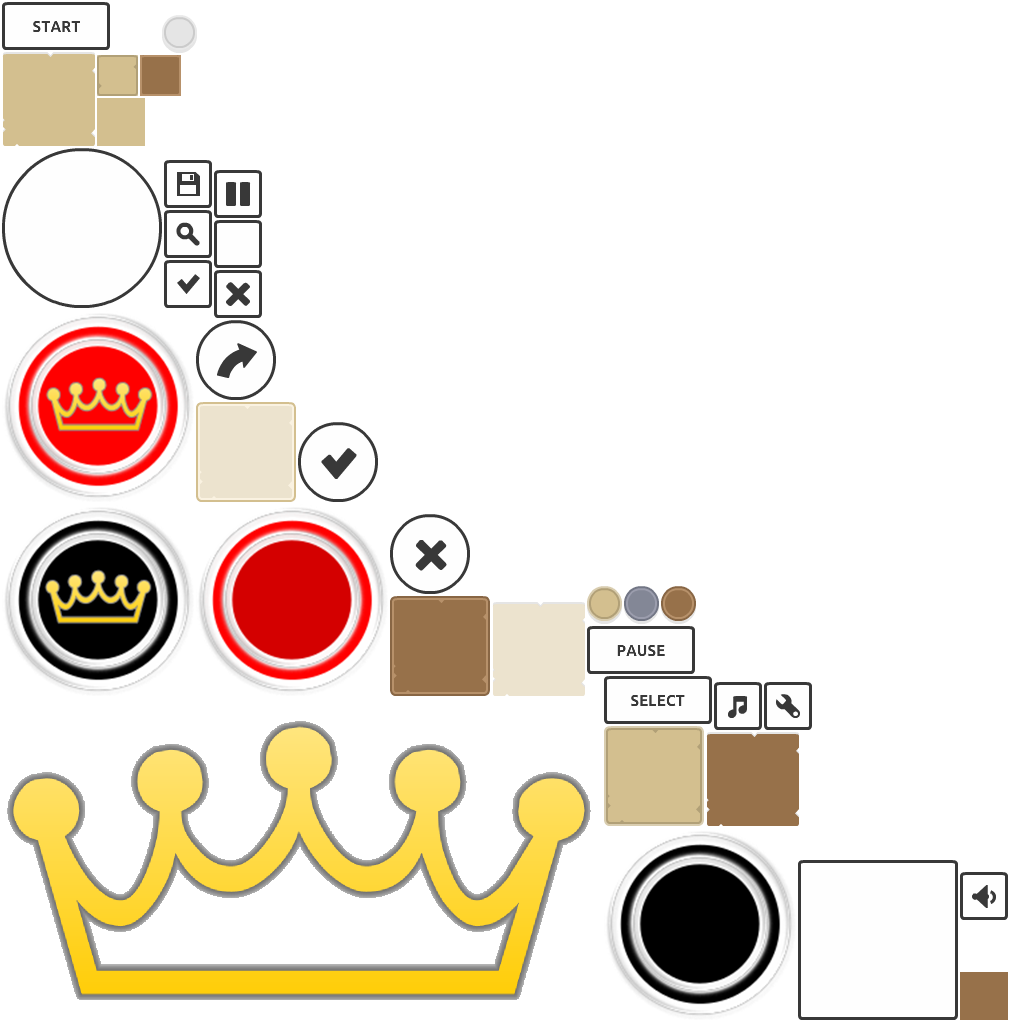
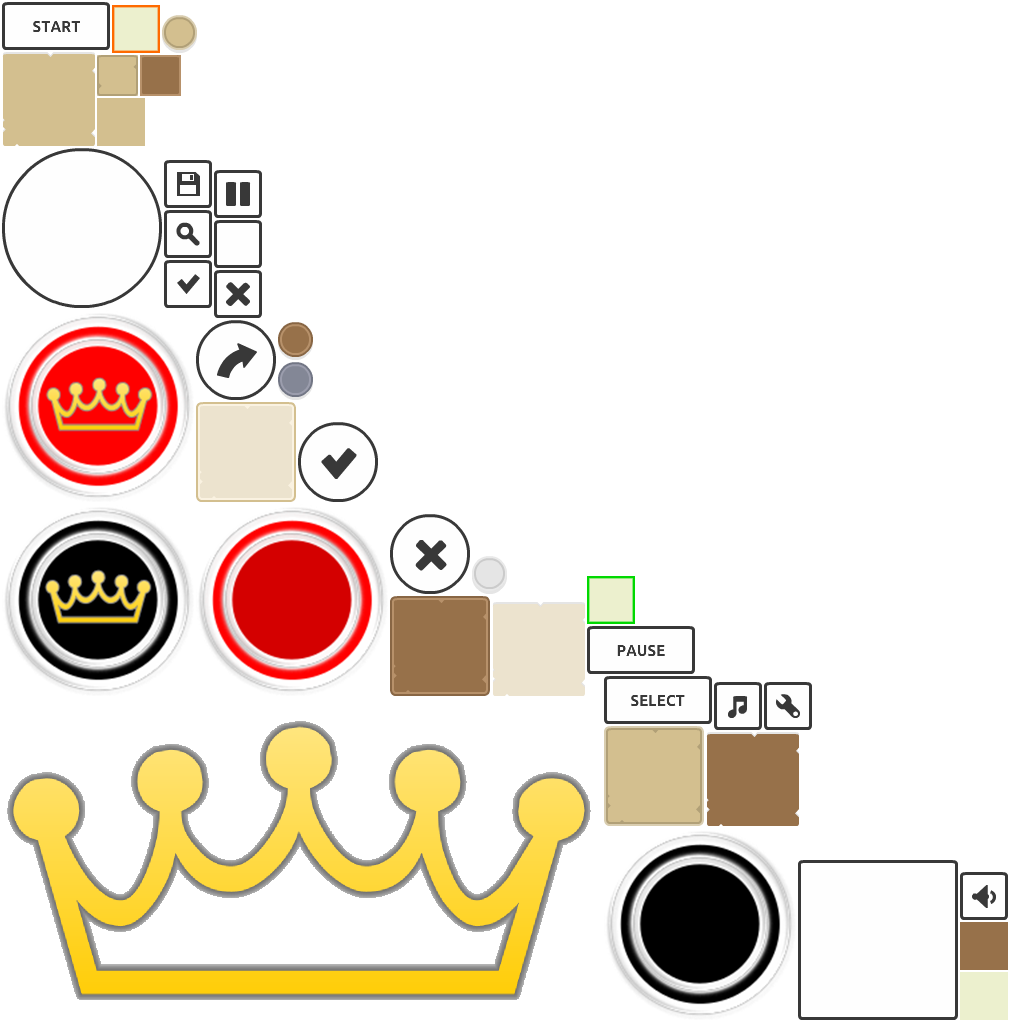
board update

diff --git a/core/src/com/pennywise/checkers/screens/GameScreen.java b/core/src/com/pennywise/checkers/screens/GameScreen.java
@@ -32,6 +32,7 @@ import com.pennywise.checkers.core.GameCam;
 import com.pennywise.checkers.core.Util;
 import com.pennywise.checkers.objects.Panel;
 import com.pennywise.checkers.objects.Piece;
+import com.pennywise.checkers.objects.Tile;
 
 import org.apache.commons.lang3.StringUtils;
 import org.apache.commons.lang3.text.WordUtils;
@@ -71,6 +72,8 @@ public class GameScreen extends AbstractScreen implements InputProcessor {
     private Button pause;
     private boolean isBusy = false;
     private int width, height;
+    private Tile[] backgroundTiles;
+    private Panel board;
 
     public GameScreen(Checkers game) {
         super(game);
@@ -124,10 +127,13 @@ public class GameScreen extends AbstractScreen implements InputProcessor {
         if (Gdx.input.isTouched()) {
             stage.screenToStageCoordinates(stageCoords.set(Gdx.input.getX(), Gdx.input.getY()));
             Actor actor = stage.hit(stageCoords.x, stageCoords.y, true);
-            if (actor instanceof com.pennywise.checkers.objects.Tile) {
-                ((com.pennywise.checkers.objects.Tile) actor).getStyle().background = tileTexture("tile" + color);
-                Gdx.app.log("Tile", ((com.pennywise.checkers.objects.Tile) actor).getName());
-            }
+            Actor actor2 = boardStage.hit(stageCoords.x, stageCoords.y, true);
+            int y= 0;
+            
+            //if (actor instanceof Piece) {
+            //    board.stageToLocalCoordinates(stageCoords.set(Gdx.input.getX(), Gdx.input.getY()));
+            //    Actor bgTile = board.hit(stageCoords.x, stageCoords.y, true);
+           // }
 
         }
 
@@ -180,7 +186,6 @@ public class GameScreen extends AbstractScreen implements InputProcessor {
 
         Stack stack = new Stack();
         stack.setSize(com.pennywise.checkers.core.Constants.GAME_WIDTH, com.pennywise.checkers.core.Constants.GAME_HEIGHT);
-        stack.add(backGround());
         stack.add(hud());
         stack.add(layerPuzzle);
         stage.addActor(stack);
@@ -210,8 +215,8 @@ public class GameScreen extends AbstractScreen implements InputProcessor {
 
     private Group board(int rows, int cols) {
 
-        Group board = new Group();
-        board.setTouchable(Touchable.disabled);
+        board = new Panel(gameUI.createPatch("panel_brown"));
+        board.setTouchable(Touchable.childrenOnly);
 
         Label.LabelStyle style = new Label.LabelStyle();
         style.font = gridFont;
@@ -219,32 +224,40 @@ public class GameScreen extends AbstractScreen implements InputProcessor {
 
         Vector2[] position = new Vector2[rows * cols];
 
-        com.pennywise.checkers.objects.Tile[] tiles = new com.pennywise.checkers.objects.Tile[rows * cols];
+        backgroundTiles = new Tile[rows * cols];
 
-        cellsize = ((com.pennywise.checkers.core.Constants.GAME_WIDTH - cols) / (cols));
-        float padding = (com.pennywise.checkers.core.Constants.GAME_WIDTH - (cellsize * cols)) / 2;
+        cellsize = ((Constants.GAME_WIDTH - cols) / (cols));
+        float padding = (Constants.GAME_WIDTH - (cellsize * cols)) / 2;
         int index, y, x = 0;
+
+
+        float posY = (float) (0.15 * Constants.GAME_HEIGHT);
+
+        board.setOrigin(0, posY);
+        board.setWidth(Constants.GAME_WIDTH);
+        float bHeight = (cellsize * rows) + (padding * 2);
+        board.setHeight(bHeight);
 
         for (int row = 0; row < rows; row++) {
             for (int col = 0; col < cols; col++) {
                 index = col + (row * cols);
                 position[index] = new Vector2((col * cellsize) + padding,
-                        padding + ((row * (cellsize)) + (com.pennywise.checkers.core.Constants.GAME_HEIGHT * 0.20f)));
+                        padding + ((row * (cellsize)) + (com.pennywise.checkers.core.Constants.GAME_HEIGHT * 0.15f)));
 
                 x = col * 22;
                 y = row * 22;
 
                 if ((row % 2) == (col % 2))
-                    style.background = tileTexture("whiteCell");
+                    style.background = tileTexture("beigeCell");
                 else
                     style.background = tileTexture("blackCell");
 
-                tiles[index] = new com.pennywise.checkers.objects.Tile("", new Label.LabelStyle(style));
-                tiles[index].setSize(cellsize, cellsize);
-                tiles[index].setAlignment(Align.center);
-                tiles[index].setPosition(position[index].x, position[index].y);
-                tiles[index].setName(index + "");
-                board.addActor(tiles[index]);
+                backgroundTiles[index] = new com.pennywise.checkers.objects.Tile("", new Label.LabelStyle(style));
+                backgroundTiles[index].setSize(cellsize, cellsize);
+                backgroundTiles[index].setAlignment(Align.center);
+                backgroundTiles[index].setPosition(position[index].x, position[index].y);
+                backgroundTiles[index].setName(index + "");
+                board.addActor(backgroundTiles[index]);
             }
         }
 
@@ -255,7 +268,7 @@ public class GameScreen extends AbstractScreen implements InputProcessor {
 
     protected Group drawPieces(int rows, int cols) {
 
-        Group board = new Group();//gameUI.createPatch("panel_brown"));
+        Group board = new Group();
         board.setTouchable(Touchable.childrenOnly);
 
         Vector2[] position = new Vector2[rows * cols];
@@ -266,12 +279,19 @@ public class GameScreen extends AbstractScreen implements InputProcessor {
         float padding = (Constants.GAME_WIDTH - (cellsize * cols)) / 2;
         int index, y, x = 0;
 
+        float posY = (float) (0.15 * Constants.GAME_HEIGHT);
+
+        board.setOrigin(0, posY);
+        board.setWidth(Constants.GAME_WIDTH);
+        float bHeight = (cellsize * rows) + (padding * 2);
+        board.setHeight(bHeight);
+
         //black pieces
         for (int row = 0; row < rows; row++) {
             for (int col = 0; col < cols; col++) {
                 index = col + (row * cols);
                 position[index] = new Vector2((col * cellsize) + padding,
-                        padding + ((row * (cellsize)) + (Constants.GAME_HEIGHT * 0.20f)));
+                        padding + ((row * (cellsize)) + (Constants.GAME_HEIGHT * 0.15f)));
 
                 x = col * 22;
                 y = row * 22;
@@ -280,9 +300,9 @@ public class GameScreen extends AbstractScreen implements InputProcessor {
                     continue;
                 else {
                     if (row < 3)
-                        pieces[index] = new Piece(tileTexture("whiteKing"));
+                        pieces[index] = new Piece(tileTexture("whitePiece"));
                     else if (row >= 5)
-                        pieces[index] = new Piece(tileTexture("blackKing"));
+                        pieces[index] = new Piece(tileTexture("blackPiece"));
                     else
                         continue;
 

diff --git a/core/src/com/pennywise/checkers/objects/Panel.java b/core/src/com/pennywise/checkers/objects/Panel.java
@@ -17,7 +17,8 @@ public class Panel extends Group {
 
     @Override
     public void draw(Batch batch, float parentAlpha) {
-        //image.draw(batch, getOriginX(), getOriginY(), getWidth(), getHeight());
+        image.draw(batch, getOriginX(), getOriginY(), getWidth(), getHeight());
+        super.draw(batch, parentAlpha);
     }
 
 }
